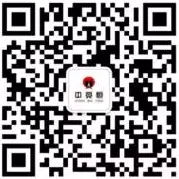
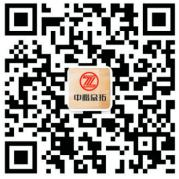
1

diff --git a/src/main/webapp/index.html b/src/main/webapp/index.html
@@ -55,15 +55,39 @@ var _hmt = _hmt || [];
 #ystb img{
 	margin-top:34px;
 }
+#lcfw2 ul li {
+    background-color: #1da4f5;
+    color: #fff;
+    /* padding: 0px 0 5px 0; */
+    width: 250px;;
+    height: 30px;
+    line-height: 30px;
+   /*  border-radius: 4px;
+    -webkit-border-radius: 4px; */
+    text-align: left;
+    font-size: 14px;
+    display: block;
+    float: left;
+    margin-right: 25px;
+    margin-bottom: 20px;
+}
+#dzbsfwul li span {
+    background-color: rgba(255,255,255,.3);
+    display: inline-block;
+    width: 30px;
+    text-align: center;
+    height: 36px;
+    margin-right: 5px;
+}
 #lcfw ul li {
     background-color: #1da4f5;
     color: #fff;
-    padding: 0px 0 5px 0;
-    width: 340px;
+    /* padding: 0px 0 5px 0; */
+    width: 250px;;
     height: 30px;
     line-height: 30px;
-    border-radius: 4px;
-    -webkit-border-radius: 4px;
+    /* border-radius: 4px; */
+   /*  -webkit-border-radius: 4px; */
     text-align: left;
     font-size: 14px;
     display: block;
@@ -81,9 +105,9 @@ var _hmt = _hmt || [];
 }
 .lcfwbt {
 	width:97%;
-    background-color: #1da4f5;
-    border-radius: 8px;
-    -webkit-border-radius: 8px;
+    background-color: #1458b9;
+   /*  border-radius: 8px; */
+  /*   -webkit-border-radius: 8px; */
     box-shadow: 0 -5px 5px rgba(0,0,0,.1) inset;
     -webkit-box-shadow: 0 -5px 5px rgba(0,0,0,.1) inset;
     color: #fff;
@@ -91,7 +115,7 @@ var _hmt = _hmt || [];
     padding: 5px;
     margin-bottom: 30px;
     font-size: 28px;
-    height: 32px;
+    height: 34px;
     line-height: 32px;
 }
 </style>
@@ -197,15 +221,14 @@ var _hmt = _hmt || [];
                     </div>
                 </li>
                 <li>
-                	<a href="product.html">政策法规</a>
+                	<a href="business.html">招标代理</a>
                     <div class="er">
                     	<div class="er_m">
                             <i>&nbsp;</i>
                             <ul>
-                                <li><a href="product.html">电力法</a></li>
-                                <li><a href="product2.html">招投标法</a></li>
-                                <li><a href="product3.html">政府采购法</a></li>
-                            	<li><a href="product4.html">投标管理办法</a></li>
+                                <li><a href="business.html" style="color: #BD0E2A;">招标代理业务</a></li>
+                                <li><a href="business.html" style="color: #BD0E2A;">代做标书流程</a></li>
+                               
                             </ul>
                         </div>
                     </div>
@@ -245,7 +268,7 @@ var _hmt = _hmt || [];
                     </div>
                 </li>
                 <li>
-                	<a href="news.html">新闻活动</a>
+                	<a href="news.html">新闻资讯</a>
                     <div class="er">
                     	<div class="er_m">
                             <i>&nbsp;</i>
@@ -339,31 +362,49 @@ var _hmt = _hmt || [];
                 </li>
     </ul>
 </div>
-<!-- 流程服务 -->
 <div class="i_m" id="lcfw">
 	<div class="lcfwbt">
-		<!-- <a href="#">
-		<img src="Assets/images/youshi.png" width="171" height="59" alt=""/>
-		</a> -->
-		代做标书服务流程
+		湖南中楷众拓主营业务
 	</div>
-	<p style="font-size: 20px;margin-bottom: 30px">一站式专业策划团队，省时，高标准</p>
-    <ul id="lcfw">
-    	<li><span>>></span>                      招标文件下达</li>
-	    <li><span>>></span>                     分析、制定实施计划</li>
-	    <li><span>>></span>                     签订委托协议</li>
-	    <li><span>>></span>                     准备工作开始实施</li>
-	    <li><span>>></span>                     评分细则，精准分析</li>
-	    <li><span>>></span>                     方案编制，资料跟进</li>
-	    <li><span>>></span>                     人/材/机的成本分析</li>
-	    <li><span>>></span>                     文件成型，汇总处理</li>
-	    <li><span>>></span>                     技术/商务/标价审查</li>
-	    <li><span>>></span>                     文案美观/协调性设计</li>
-	    <li><span>>></span>                     移交客户，跟踪整改</li>
-	    <li><span>>></span>                     最终敲定，封标装订</li>
-
+	<p style="font-size: 20px;margin-bottom: 30px;font-weight: bold">招标代理流程 &nbsp;↓↓↓ 一站式专业策划团队，省时，高标准</p>
+    <ul>
+    	<li><span>>></span>                     1.项目立项</li>
+	    <li><span>>></span>                     2.建设工程项目报建</li>
+	    <li><span>>></span>                     3.建设单位招标资格</li>
+	    <li><span>>></span>                     4.办理交易证</li>
+	    <li><span>>></span>                     5.编制资格预审</li>
+	    <li><span>>></span>                     6.发布资格审查公告</li>
+	    <li><span>>></span>                     7.资格预审</li>
+	    <li><span>>></span>                     8.发售招标文件及答题补遗</li>
+	    <li><span>>></span>                     9.接收投标文件</li>
+	    <li><span>>></span>                     10.抽取评价专家</li>
+	    <li><span>>></span>                     11.开标</li>
+	    <li><span>>></span>                     12.投标文件评审</li>
+		<li><span>>></span>                     13.定标</li>
+		<li><span>>></span>                     14.发出中标通知书</li>
+		<li><span>>></span>                     15.谈判及签约</li>
+		<li><span>>></span>                     16.退回投标保证金</li>
     </ul>
 </div>
+
+<div class="i_m" id="lcfw2">
+	<p style="font-size: 20px;margin-bottom: 30px;font-weight: bold ;    float: left; width:100%">代做标书服务流程 &nbsp;↓↓↓ 一站式专业策划团队，省时，高标准</p>
+    <ul id="dzbsfwul">
+    	<li><span>>></span>                     1.项目立项</li>
+	    <li><span>>></span>                     2.建设工程项目报建</li>
+	    <li><span>>></span>                     3.建设单位招标资格</li>
+	    <li><span>>></span>                     4.办理交易证</li>
+	    <li><span>>></span>                     5.编制资格预审</li>
+	    <li><span>>></span>                     6.发布资格审查公告</li>
+	    <li><span>>></span>                     7.资格预审</li>
+	    <li><span>>></span>                     8.发售招标文件及答题补遗</li>
+	    <li><span>>></span>                     9.接收投标文件</li>
+	    <li><span>>></span>                     10.抽取评价专家</li>
+	    <li><span>>></span>                     11.开标</li>
+	    <li><span>>></span>                     12.投标文件评审</li>
+    </ul>
+</div>
+
 <div class="i_m">
 	<div class="i_name">
 		<a href="case.html">
@@ -401,8 +442,8 @@ var _hmt = _hmt || [];
             	<dt><a href="about.html"><img src="Assets/upload/pic5.png" alt=""/></a></dt>
                 <dd>
                 	<p style="text-indent:2em;font-size: 14px;">湖南中楷众拓项目管理咨询有限公司，前身为”中意标书工作室”，成立于2014年3月,是一家专注工程类，采购类和服务类三大类工程项目的配套服务公司。</p>
-	                <p style="text-indent:2em;font-size: 14px;">涉及业务： 资料整理公务代办；招投标咨询；招投标文件设计及制作；预（结）算及竣工资料的编制。</p>
-					<p style="text-indent:2em;font-size: 14px;">工程图纸晒图等工程项目。公司拥有一支专业的技术团队，经过长期的实践和招贤纳士， 团队实力越发强大。公司拥有一支专业的技术团队，经过长期的实践和招贤纳士，团队实力越发强大。目前，公司储备了各行业丰富的专业人才，随时可为各行业公司企业做好工程项目各类服务。同时，积极整合社会各界资源，与各类大中型企业和事业单位加强联系......</p>
+	                <p style="text-indent:2em;font-size: 14px;">涉及业务： 1.招投标文件的编制；2.项目预（结）算；3.招标代理，可研，监理；4.项目开竣工资料；5.招投标公务代办</p>
+					<p style="text-indent:2em;font-size: 14px;">公司拥有一支专业的技术团队，经过长期的实践和招贤纳士，团队实力越发强大。目前，公司储备了各行业丰富的专业人才，随时可为各行业公司企业做好工程项目各类服务。同时，积极整合社会各界资源，与各类大中型企业和事业单位加强联系，并聘请多位专家学者为公司的技术顾问，为不断提升服务质量打下了坚实的基础！</p>
 				 </dd>
             </dl>
             <div class="space_hx">&nbsp;</div>
@@ -416,7 +457,7 @@ var _hmt = _hmt || [];
 	<div class="fn_m clearfix">
     	<ul class="code clearfix">
         	<li>
-            	<b>关注微信公众号</b>
+            	<b>添加对接人微信</b>
                 <img src="Assets/upload/code3.jpg" alt=""/>
                 <p>中楷众拓官方微信</p>
             </li>
@@ -442,6 +483,9 @@ var _hmt = _hmt || [];
                 <p><a href="about.html">公司简介</a></p>
                 <p><a href="about2.html">中楷众拓优势</a></p>
                 <p><a href="about3.html">组织架构</a></p>
+                <p><a href="product2.html">招投标法</a></p>
+                <p><a href="product3.html">政府采购法</a></p>
+                <p><a href="product4.html">投标管理办法</a></p>
             </li>
             
             <li>

diff --git a/src/main/webapp/about.html b/src/main/webapp/about.html
@@ -259,11 +259,11 @@ var _hmt = _hmt || [];
         	<p style="text-align: center;"><img src="Assets/upload/yyzz.jpg"  alt=""/></p>
         	<p style="text-indent:2em; font-size: 16px; ">湖南中楷众拓项目管理咨询有限公司，前身为”中意标书工作室”，成立于2014年3月，是一家专注工程类，采购类和服务类三大类工程项目的配套服务公司，<p>
         	<p style="font-size: 16px; ">涉及业务：</p>
-        	<p style="text-indent:6em;">资料整理公务代办</p>
-        	<p style="text-indent:6em;">招投标咨询</p>
-        	<p style="text-indent:6em;">招投标文件设计及制作</p>
-        	<p style="text-indent:6em;">预（结）算及竣工资料的编制</p>
-        	<p style="text-indent:6em;">工程图纸晒图等工程项目。</p>
+        	<p style="text-indent:6em;    font-weight: bold">1.招投标文件的编制；</p>
+        	<p style="text-indent:6em;    font-weight: bold">2.项目预（结）算；</p>
+        	<p style="text-indent:6em;    font-weight: bold">3.招标代理，可研，监理；</p>
+        	<p style="text-indent:6em;    font-weight: bold">4.项目开竣工资料；</p>
+        	<p style="text-indent:6em;    font-weight: bold">5.招投标公务代办。</p>
         	<p style="text-indent:2em; font-size: 16px; ">公司拥有一支专业的技术团队，经过长期的实践和招贤纳士，团队实力越发强大。目前，公司储备了各行业丰富的专业人才，随时可为各行业公司企业做好工程项目各类服务。同时，积极整合社会各界资源，与各类大中型企业和事业单位加强联系，并聘请多位专家学者作为公司的技术顾问或（兼）职人员，为不断提升服务质量打下了坚实的基础！</p>
          	<p style="text-indent:2em;font-size: 16px;  ">公司自成立以来，秉承”踏实做人，精心做事”的服务理念，先后为湖南及外省的多加企业提供了投标文件的设计和制作、预（结）算及竣工资料的编制等服务，得到了社会各界的赞誉和支持，深受省内外客户的赏识喝欢迎，如今已成为业绩发展最快的公司之一。</p>
           	<p style="text-indent:2em;font-weight: bold;font-size: 16px; color: red;">公司企业文化：生命不止，奋斗不息！</p>
